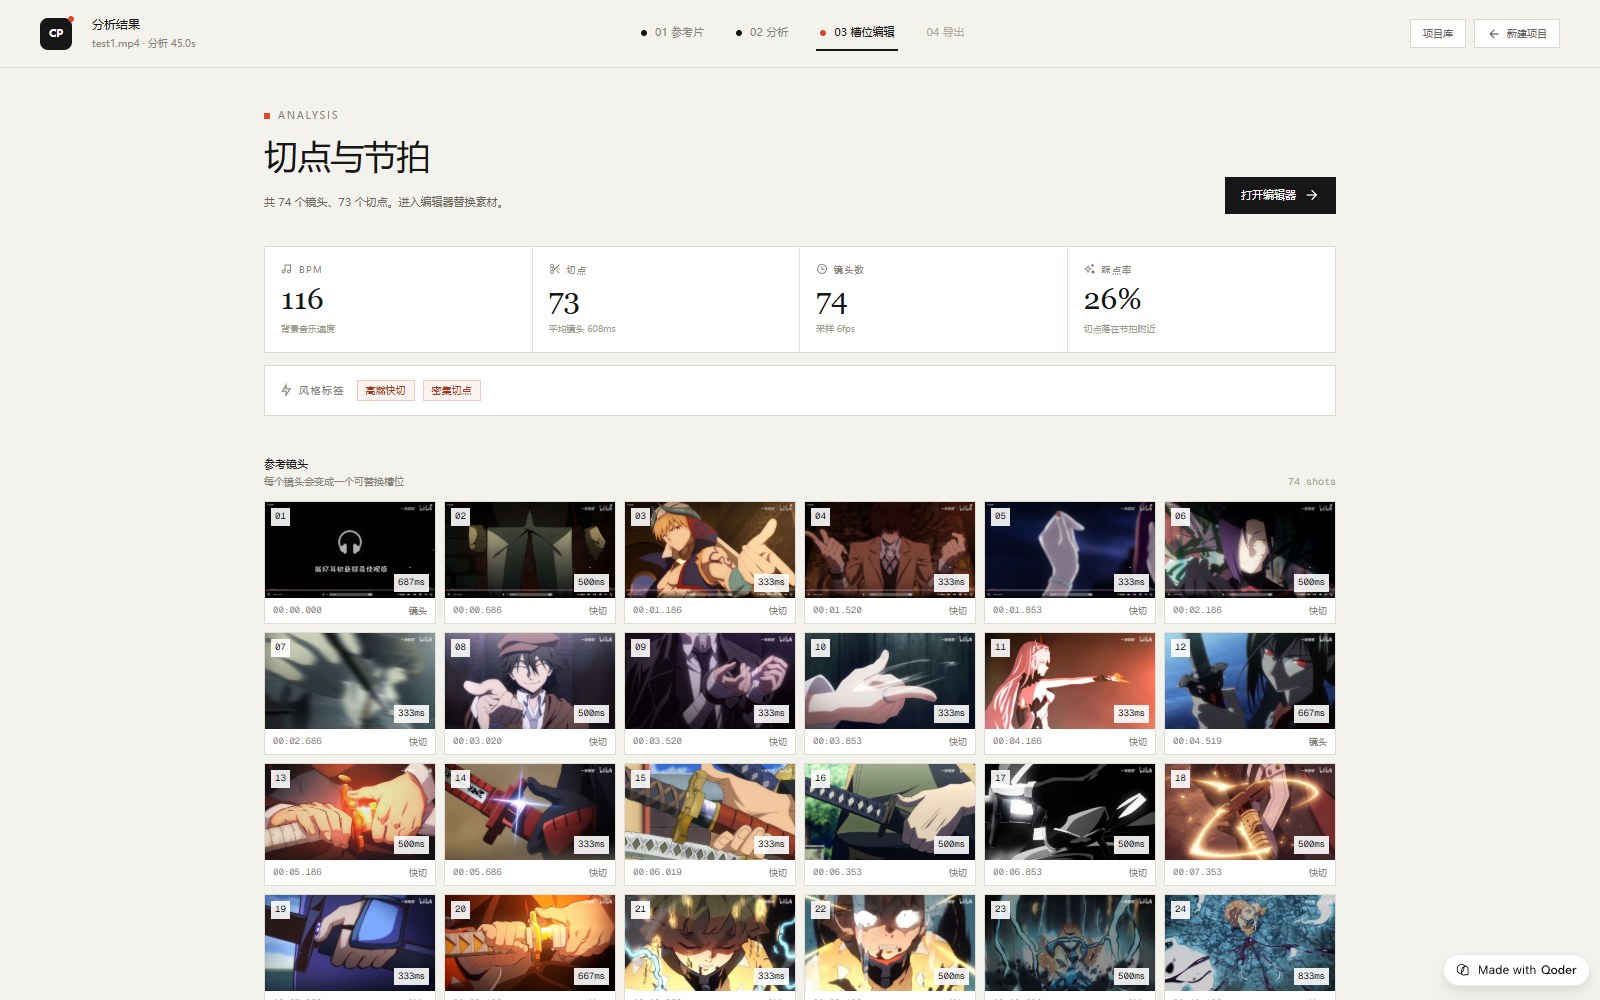
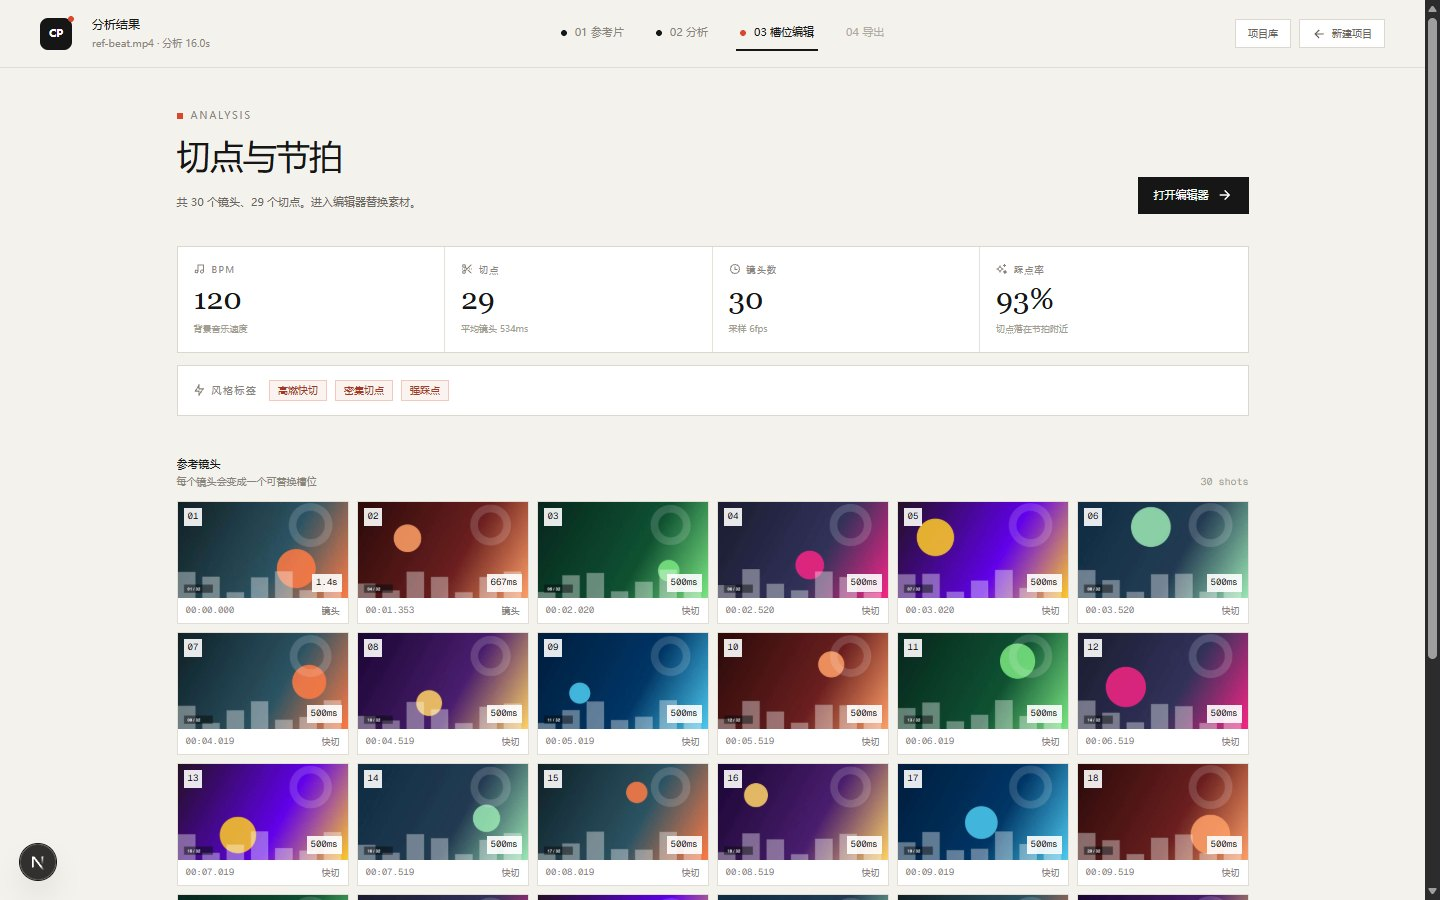
docs: README 截图替换为程序化生成的演示素材，去除水印与第三方素材

diff --git a/README.md b/README.md
@@ -67,8 +67,12 @@ CPvidego takes a third path: **turn rhythm structure into explainable, editable 
 5. **Fine-tune** — replace any slot, swipe-preview alternatives, edit the music track (repeat / speed / volume / fades);
 6. **Export** — 1080p MP4 rendered in the browser, bit-identical A/V behavior to the preview.
 
+![Upload and analysis settings](docs/images/upload.jpg)
 ![Analysis board](docs/images/analysis.jpg)
+![Editor](docs/images/editor.jpg)
 ![Export](docs/images/export.jpg)
+
+<sub>Screenshots use procedurally generated placeholder footage — no third-party media.</sub>
 
 ## Quickstart
 
